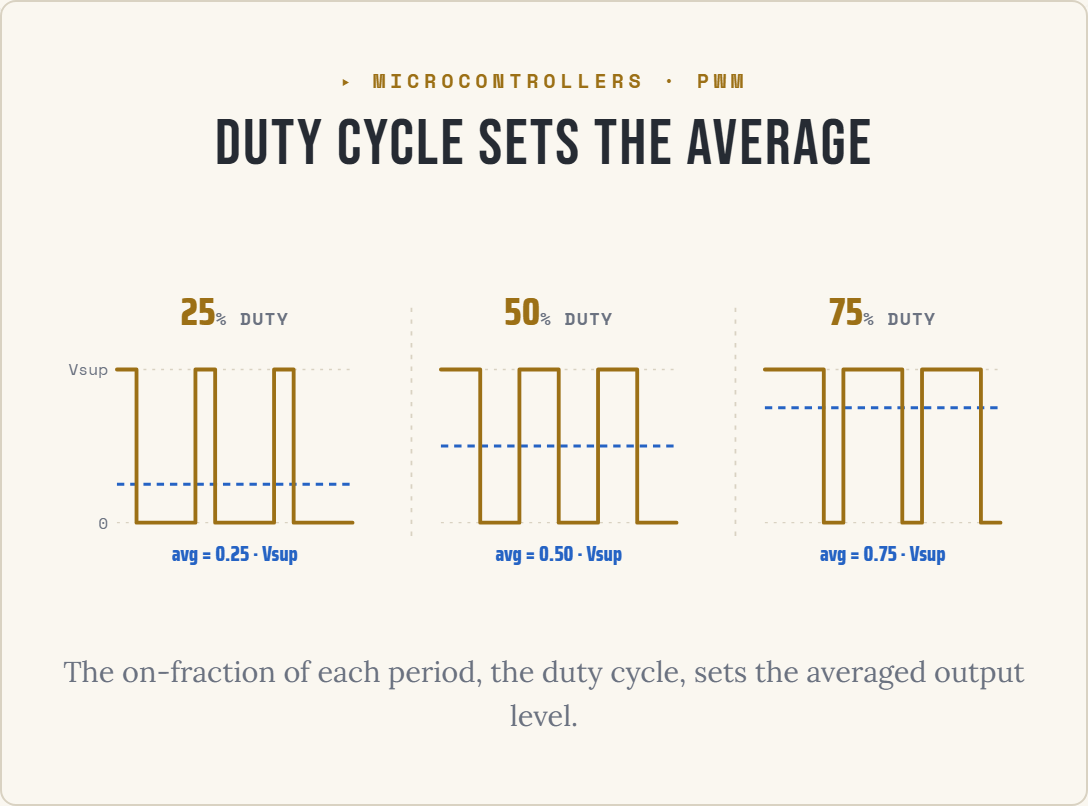
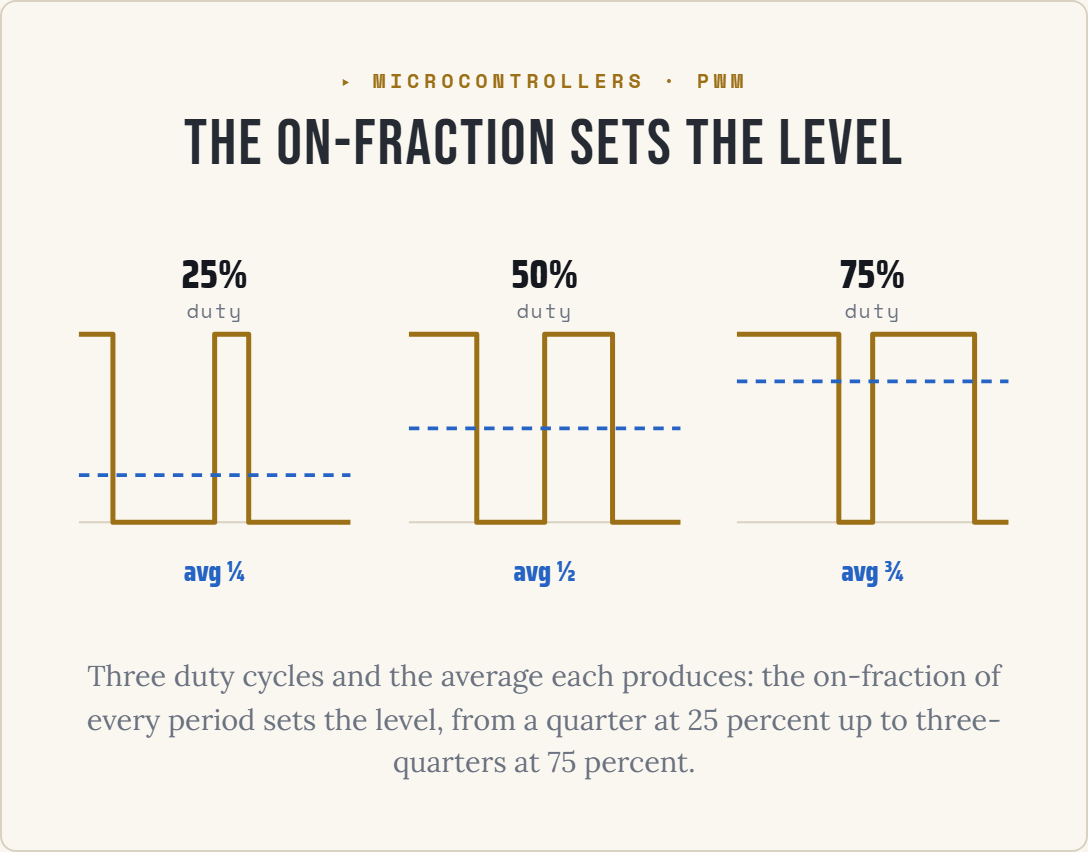
redo(diagrams): mcu-pwm-duty — three waveforms, rising averages (4/11)
Rebuild to the house bar: three PWM square waves at 25/50/75 percent duty side by
side, each with a blue dashed average line at the level it produces (avg 1/4, 1/2,
3/4). The average rises visibly with the duty. Each panel is its own SVG so they
stack full-width on a phone. Saira duty numbers, token color, landscape 1.29.

diff --git a/src/components/guide/diagrams/McuPwmDuty.tsx b/src/components/guide/diagrams/McuPwmDuty.tsx
@@ -1,109 +1,87 @@
-// PWM duty cycle sets the average (v2). Microcontrollers & ESP32 cluster.
+// PWM: the on-fraction sets the level (diagram-standards v2).
+// MCU cluster, diagram 4. Owner-picked P3: three panels side by side.
 //
-// Teaching point: switching a pin on and off fast, with a controllable on-
-// fraction (duty cycle), averages to an in-between level. More on-time, higher
-// average. Three duty cycles show it: 25, 50, 75 percent.
+// Teaching point (lesson 3): a digital pin is only fully on or fully off, but
+// switch it fast with a controllable on-fraction (the duty cycle) and it averages
+// to a level in between. 25 percent duty averages a quarter of the supply, 50
+// percent a half, 75 percent three-quarters. Each panel shows the square wave and
+// a blue dashed line at the average it produces; the average rises with the duty.
 //
-// Landscape desktop/print: three waveform panels side by side, gold square wave +
-// blue dashed average. REFLOWS on a phone to three proportion rows. Token color.
+// Three SVG panels in a flex row, so on a phone they stack full-width and the
+// labels never shrink. Token color, both themes. Header + caption from DiagramFrame.
 import { DiagramFrame } from "./DiagramFrame";
 
-const Y_HI = 92, Y_LO = 196; // Vsupply / 0 in plot coords
+const X0 = 10, XW = 130, YT = 48, YB = 138, PER = 2;
 
-function squarePath(x0: number, x1: number, duty: number, periods: number): string {
-  const T = (x1 - x0) / periods;
-  let d = `M${x0},${Y_HI}`;
-  for (let p = 0; p < periods; p++) {
-    const xs = x0 + p * T;
-    const xon = xs + duty * T;
-    d += ` L${xon.toFixed(1)},${Y_HI} L${xon.toFixed(1)},${Y_LO} L${(xs + T).toFixed(1)},${Y_LO}`;
-    if (p < periods - 1) d += ` L${(xs + T).toFixed(1)},${Y_HI}`;
+function pwmPath(duty: number) {
+  const T = XW / PER;
+  let d = `M${X0} ${YT}`;
+  let x = X0;
+  for (let p = 0; p < PER; p++) {
+    const hi = T * duty;
+    d += ` L${(x + hi).toFixed(1)} ${YT} L${(x + hi).toFixed(1)} ${YB} L${(x + T).toFixed(1)} ${YB}`;
+    if (p < PER - 1) d += ` L${(x + T).toFixed(1)} ${YT}`;
+    x += T;
   }
   return d;
 }
 
-function Panel({ px, duty, label, avg, showAxis }: { px: number; duty: number; label: string; avg: string; showAxis?: boolean }) {
-  const x0 = px + 20, x1 = px + 180;
-  const avgY = Y_LO - (Y_LO - Y_HI) * duty;
-  return (
-    <g>
-      <text className="pwm-num" x={px + 100} y={62} textAnchor="middle">{label}<tspan className="pwm-pct">% DUTY</tspan></text>
-      {/* baselines */}
-      <line className="pwm-base" x1={x0} y1={Y_HI} x2={x1} y2={Y_HI} />
-      <line className="pwm-base" x1={x0} y1={Y_LO} x2={x1} y2={Y_LO} />
-      {showAxis ? (
-        <>
-          <text className="pwm-axl" x={x0 - 6} y={Y_HI + 4} textAnchor="end">Vsup</text>
-          <text className="pwm-axl" x={x0 - 6} y={Y_LO + 4} textAnchor="end">0</text>
-        </>
-      ) : null}
-      {/* average level */}
-      <line className="pwm-avg" x1={x0} y1={avgY} x2={x1} y2={avgY} />
-      {/* waveform */}
-      <path className="pwm-wave" fill="none" d={squarePath(x0, x1, duty, 3)} />
-      <text className="pwm-avgl" x={px + 100} y={222} textAnchor="middle">avg = {avg} · Vsup</text>
-    </g>
-  );
-}
+const PANELS = [
+  { duty: 0.25, lbl: "25%", avg: "¼" },
+  { duty: 0.5, lbl: "50%", avg: "½" },
+  { duty: 0.75, lbl: "75%", avg: "¾" },
+];
 
 export function McuPwmDuty({ caption }: { caption?: string }) {
   return (
     <DiagramFrame
       eyebrow="MICROCONTROLLERS · PWM"
       tone="gold"
-      title="Duty cycle sets the average"
-      ariaLabel="Three pulse-width-modulation waveforms at different duty cycles. Each is a gold square wave switching between the supply voltage and zero, with a blue dashed line showing the average level it produces. At 25 percent duty the pin is on a quarter of each period and the average is 0.25 of the supply. At 50 percent it is on half the time and averages 0.5 of the supply. At 75 percent it is on three quarters of the time and averages 0.75 of the supply. The average tracks the on-fraction."
+      title="The on-fraction sets the level"
+      ariaLabel="Three PWM waveforms at 25, 50, and 75 percent duty cycle, side by side. Each is a square wave that spends that fraction of every period high; a blue dashed line marks the average output level it produces, rising from a quarter of the supply at 25 percent duty, to a half at 50 percent, to three-quarters at 75 percent. The on-fraction of each period sets the average."
       caption={caption}
-      defaultCaption="The on-fraction of each period, the duty cycle, sets the averaged output level."
+      defaultCaption="Three duty cycles and the average each produces: the on-fraction of every period sets the level, from a quarter at 25 percent up to three-quarters at 75 percent."
     >
       <style>{CSS}</style>
-
-      <div className="pwm">
-        {/* desktop / print */}
-        <svg className="pwm-scene" viewBox="0 0 660 250" aria-hidden="true">
-          <Panel px={20} duty={0.25} label="25" avg="0.25" showAxis />
-          <line className="pwm-div" x1={240} y1={50} x2={240} y2={210} />
-          <Panel px={240} duty={0.5} label="50" avg="0.50" />
-          <line className="pwm-div" x1={460} y1={50} x2={460} y2={210} />
-          <Panel px={460} duty={0.75} label="75" avg="0.75" />
-        </svg>
-
-        {/* phone reflow */}
-        <div className="pwm-phone" aria-hidden="true">
-          {[["25", 25], ["50", 50], ["75", 75]].map(([l, d]) => (
-            <div className="pwm-row" key={l as string}>
-              <span className="pwm-rn">{l}<em>%</em></span>
-              <span className="pwm-bar"><span className="pwm-fill" style={{ width: `${d}%` }} /></span>
-              <span className="pwm-ra">0.{l === "50" ? "50" : l === "25" ? "25" : "75"} Vsup</span>
-            </div>
-          ))}
-          <p className="pwm-sum">The on-fraction of each period sets the average level.</p>
-        </div>
+      <div className="pw">
+        {PANELS.map((p) => {
+          const yAvg = YB - p.duty * (YB - YT);
+          return (
+            <svg key={p.lbl} className="pw-svg" viewBox="0 0 150 178" aria-hidden="true">
+              <text x="75" y="26" textAnchor="middle" className="pw-duty">{p.lbl}</text>
+              <text x="75" y="40" textAnchor="middle" className="pw-dutysub">duty</text>
+              <line x1={X0} y1={YB} x2={X0 + XW} y2={YB} className="pw-base" />
+              <path d={pwmPath(p.duty)} className="pw-wave" />
+              <line x1={X0} y1={yAvg} x2={X0 + XW} y2={yAvg} className="pw-avg" />
+              <text x="75" y="166" textAnchor="middle" className="pw-avglbl">avg {p.avg}</text>
+            </svg>
+          );
+        })}
       </div>
     </DiagramFrame>
   );
 }
 
 const CSS = `
-.pwm{display:block;}
-.pwm-scene{display:block;width:100%;height:auto;overflow:visible;}
-.pwm-base{stroke:var(--color-panel-border,#3a3f50);stroke-width:1;stroke-dasharray:2 4;}
-.pwm-div{stroke:var(--color-panel-border,#3a3f50);stroke-width:1.2;stroke-dasharray:3 5;}
-.pwm-wave{stroke:var(--color-command-gold,#c8963e);stroke-width:2.6;stroke-linejoin:round;stroke-linecap:round;}
-.pwm-avg{stroke:var(--color-signal-blue,#4a8fff);stroke-width:2;stroke-dasharray:5 4;}
-.pwm-num{font-family:var(--font-numeral,"Saira Condensed",sans-serif);font-weight:800;font-size:26px;fill:var(--color-command-gold,#c8963e);}
-.pwm-pct{font-family:var(--font-mono,"Space Mono",monospace);font-weight:700;font-size:12px;letter-spacing:.08em;fill:var(--color-muted,#aaa);}
-.pwm-axl{font-family:var(--font-mono,"Space Mono",monospace);font-weight:400;font-size:11px;fill:var(--color-muted,#aaa);}
-.pwm-avgl{font-family:var(--font-numeral,"Saira Condensed",sans-serif);font-weight:800;font-size:14px;fill:var(--color-signal-blue,#4a8fff);}
+.pw{display:flex;gap:.5rem;align-items:center;justify-content:center;max-width:36rem;margin-inline:auto;}
+.pw-svg{flex:1 1 150px;min-width:0;max-width:180px;height:auto;overflow:visible;}
+@media (max-width:520px){
+  .pw{flex-direction:column;gap:.4rem;}
+  .pw-svg{max-width:min(300px,100%);}
+}
+.pw-wave{fill:none;stroke:var(--color-command-gold,#c8963e);stroke-width:2.4;stroke-linejoin:round;}
+.pw-avg{stroke:var(--color-signal-blue,#4a8fff);stroke-width:1.8;stroke-dasharray:5 4;}
+.pw-base{stroke:var(--color-panel-border,#3a3f50);stroke-width:1;}
+.pw-duty{font-family:var(--font-numeral,"Saira Condensed",sans-serif);font-weight:700;font-size:19px;fill:var(--color-title,#f1ece0);}
+.pw-dutysub{font-family:var(--font-mono,"Space Mono",monospace);font-size:9.5px;letter-spacing:.1em;fill:var(--color-muted,#aaaaaa);}
+.pw-avglbl{font-family:var(--font-numeral,"Saira Condensed",sans-serif);font-weight:700;font-size:14px;fill:var(--color-signal-blue,#4a8fff);}
 
-/* phone reflow */
-.pwm-phone{display:none;}
-@media (max-width:520px){ .pwm-scene{display:none;} .pwm-phone{display:block;} }
-.pwm-row{display:flex;align-items:center;gap:.6rem;margin-bottom:.6rem;}
-.pwm-rn{font-family:var(--font-numeral,"Saira Condensed",sans-serif);font-weight:800;font-size:1.5rem;color:var(--color-command-gold,#c8963e);min-width:2.6rem;}
-.pwm-rn em{font-style:normal;font-size:.9rem;color:var(--color-muted,#aaa);margin-left:.1rem;}
-.pwm-bar{flex:1;height:14px;border:1px solid var(--color-panel-border,#3a3f50);border-radius:3px;overflow:hidden;background:var(--color-navy-dark,#1a1a2e);}
-.pwm-fill{display:block;height:100%;background:var(--color-command-gold,#c8963e);}
-.pwm-ra{font-family:var(--font-mono,"Space Mono",monospace);font-size:.8rem;color:var(--color-signal-blue,#4a8fff);min-width:5rem;text-align:right;}
-.pwm-sum{margin:.3rem 0 0;font-family:var(--font-serif,"Lora",serif);font-size:.9rem;color:var(--color-muted,#aaa);}
+/* Tier-B reveal off the frame's armed/in contract (final state under reduced-motion). */
+.dgfrm.armed .pw-svg{opacity:0;transform:translateY(6px);}
+.dgfrm.armed.in .pw-svg{opacity:1;transform:none;transition:opacity .55s ease,transform .55s cubic-bezier(.2,.7,.2,1);}
+.dgfrm.armed.in .pw-svg:nth-child(2){transition-delay:.1s;}
+.dgfrm.armed.in .pw-svg:nth-child(3){transition-delay:.2s;}
+@media (prefers-reduced-motion:reduce){
+  .dgfrm .pw-svg{opacity:1!important;transform:none!important;transition:none!important;}
+}
 `;
